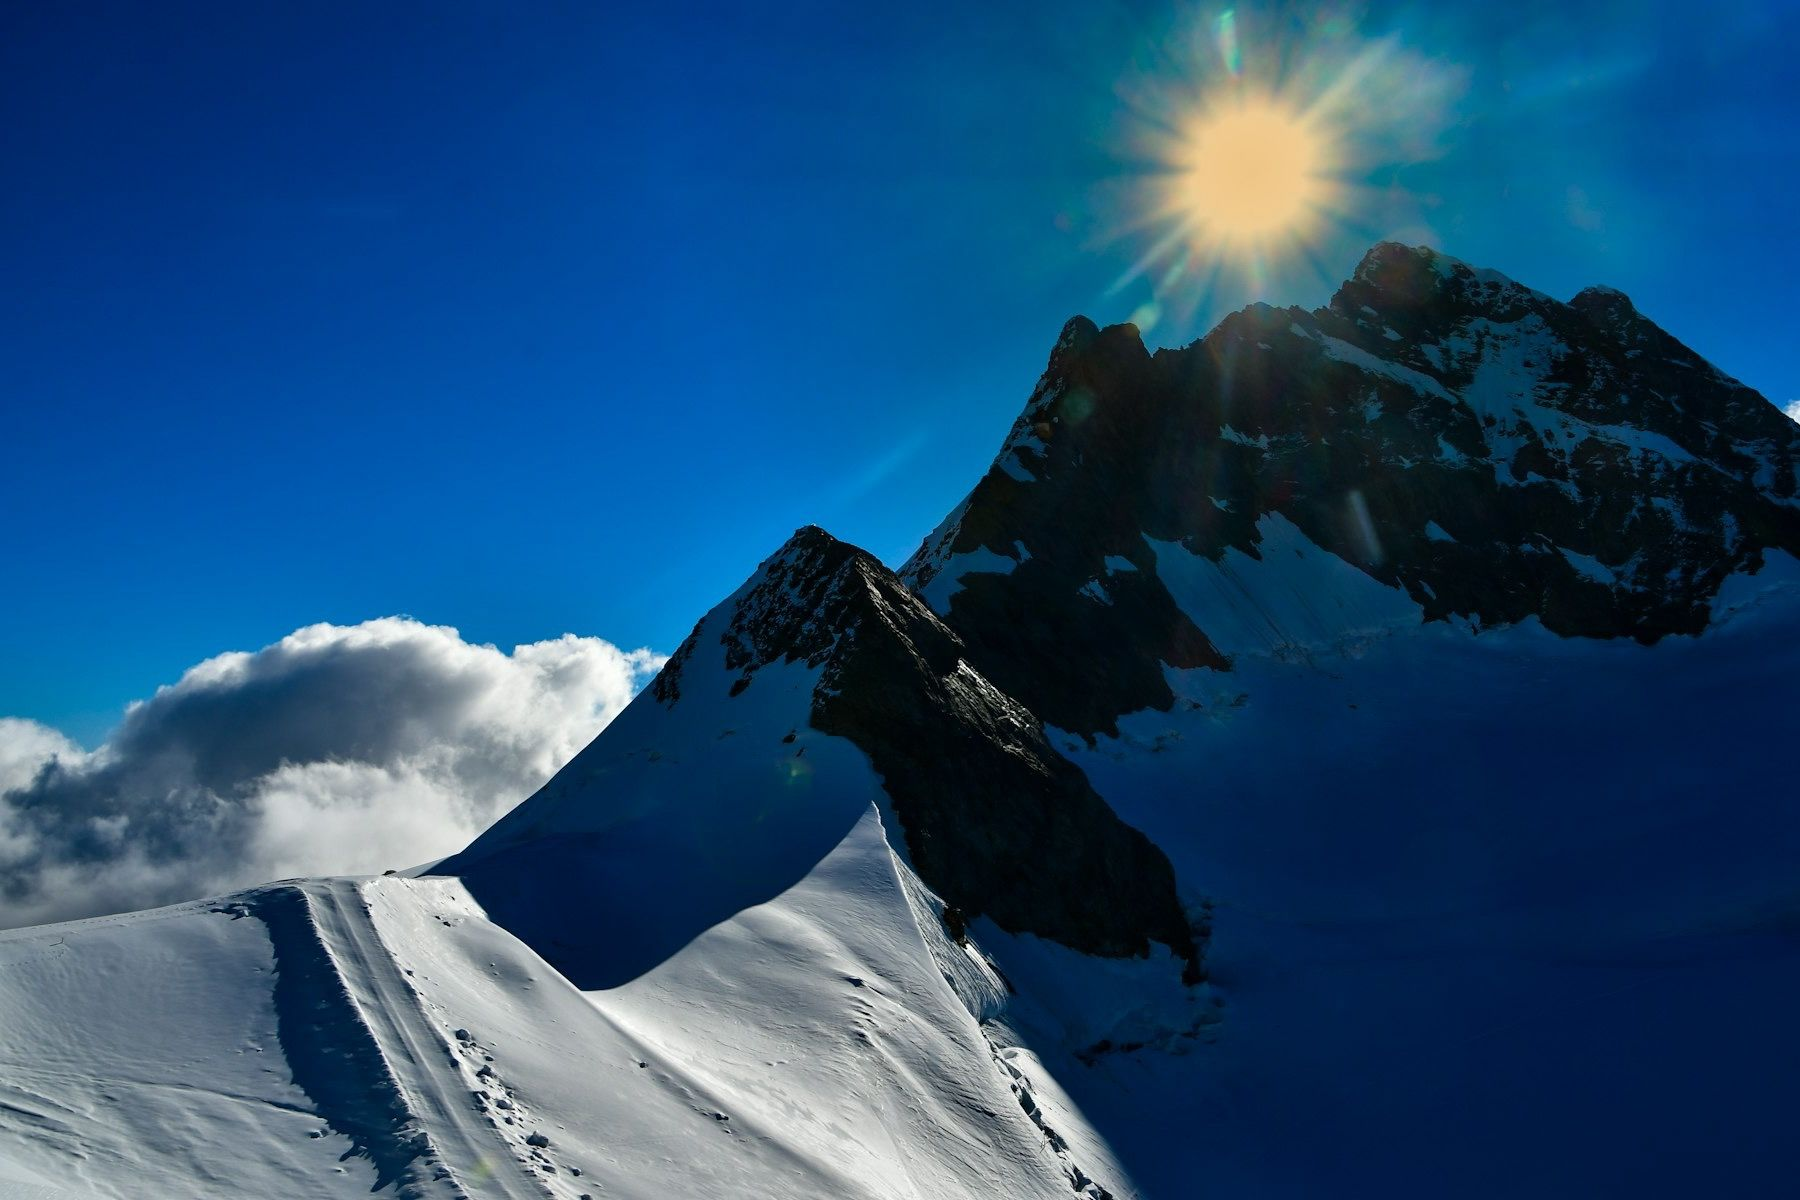
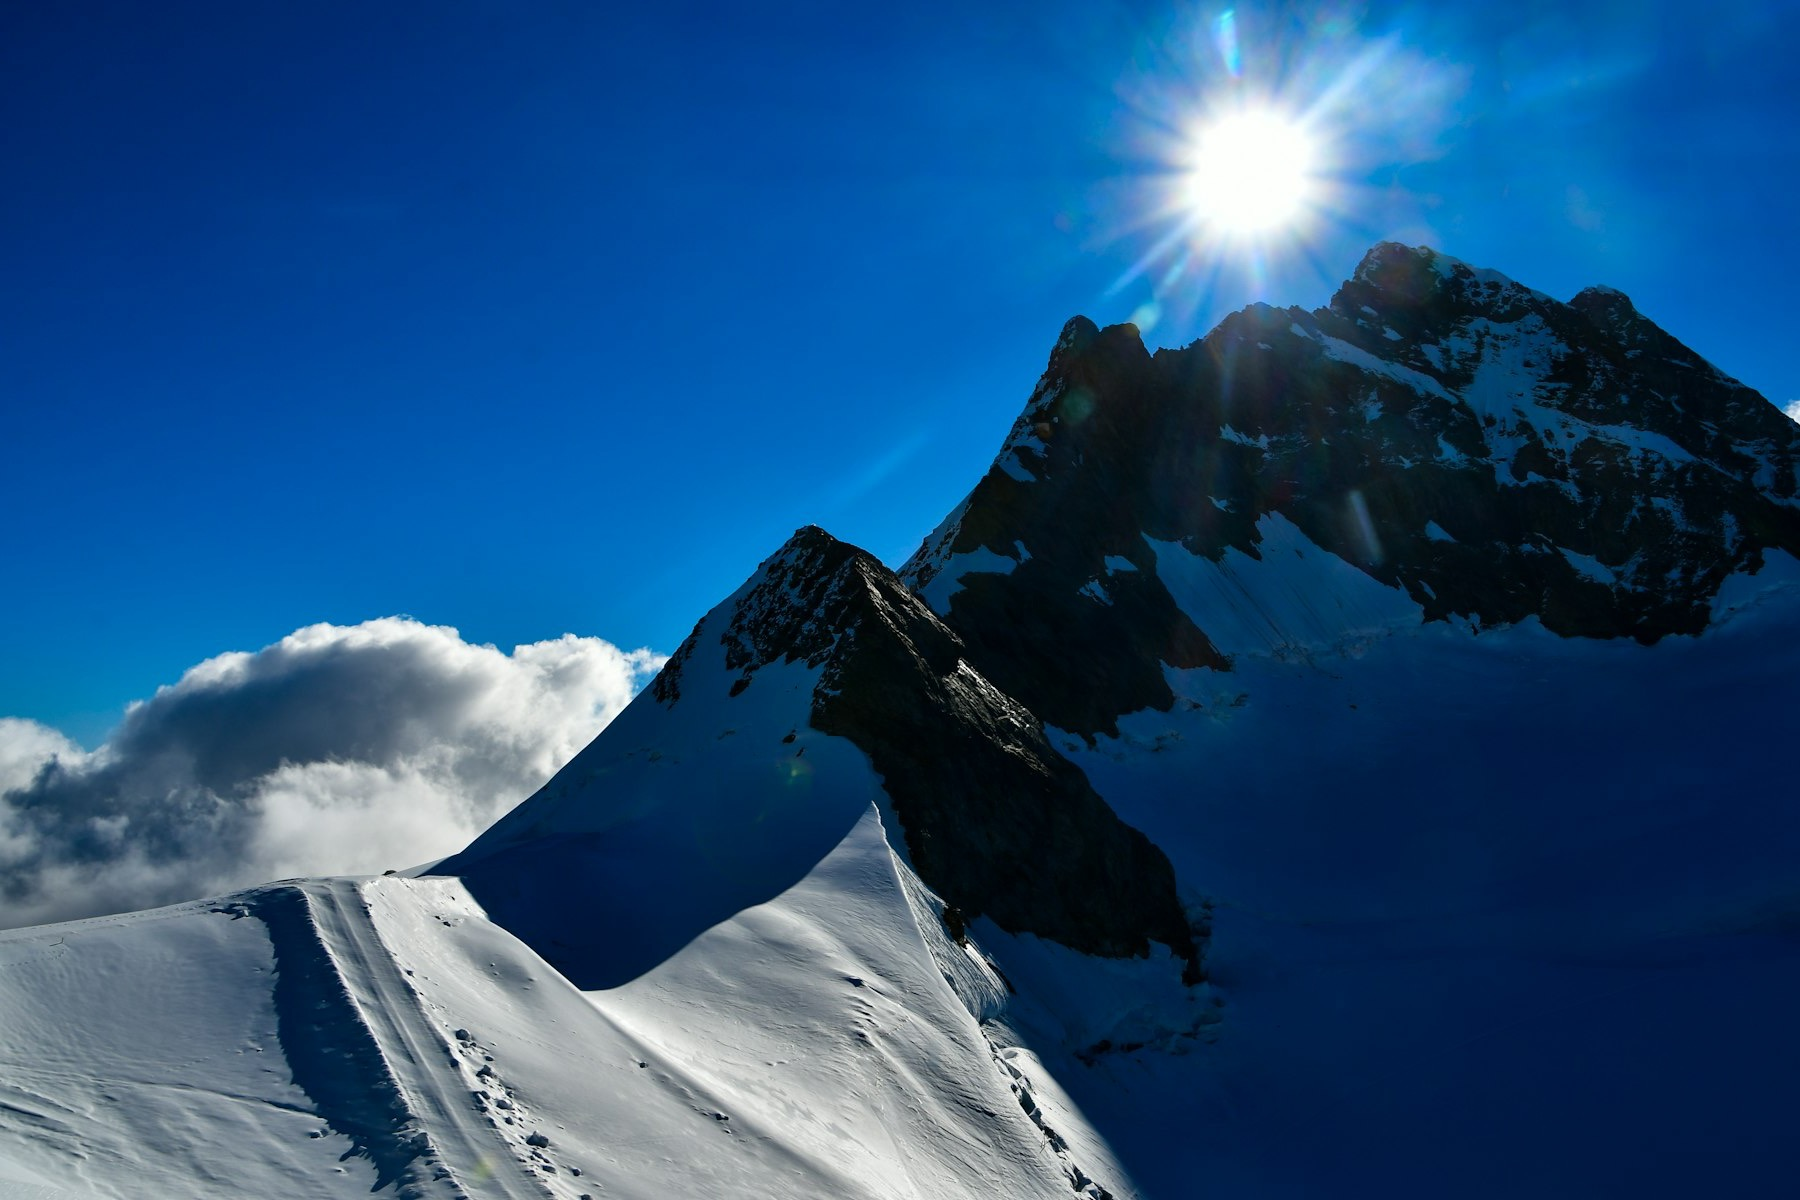
Home hero: restore the unedited Jungfraujoch photo
The softened-sun edit looked artificial. Back to the original photo, mirrored only. Layout unchanged.

Changed region(s): [[0.4667, 0.0, 0.9333, 0.4008]]

diff --git a/konversaitions_v16.html b/konversaitions_v16.html
@@ -255,7 +255,7 @@ body.nav-open{overflow:hidden;}
 
 <!-- HERO -->
 <section class="hero">
-  <!-- Photo: Jungfraujoch, Switzerland, by SnapSaga on Unsplash (unsplash.com/photos/MZFvPUy0FPo), Unsplash License. Mirrored, sun glare softened to gold. -->
+  <!-- Photo: Jungfraujoch, Switzerland, by SnapSaga on Unsplash (unsplash.com/photos/MZFvPUy0FPo), Unsplash License. Mirrored so the sun sits top right. -->
   <img class="hero-art" src="hero-jungfrau.jpg" alt="" aria-hidden="true" width="1800" height="1200" decoding="async" fetchpriority="high">
   <div class="hero-rule fade" aria-hidden="true">
     <span class="hero-rule-line"></span>
